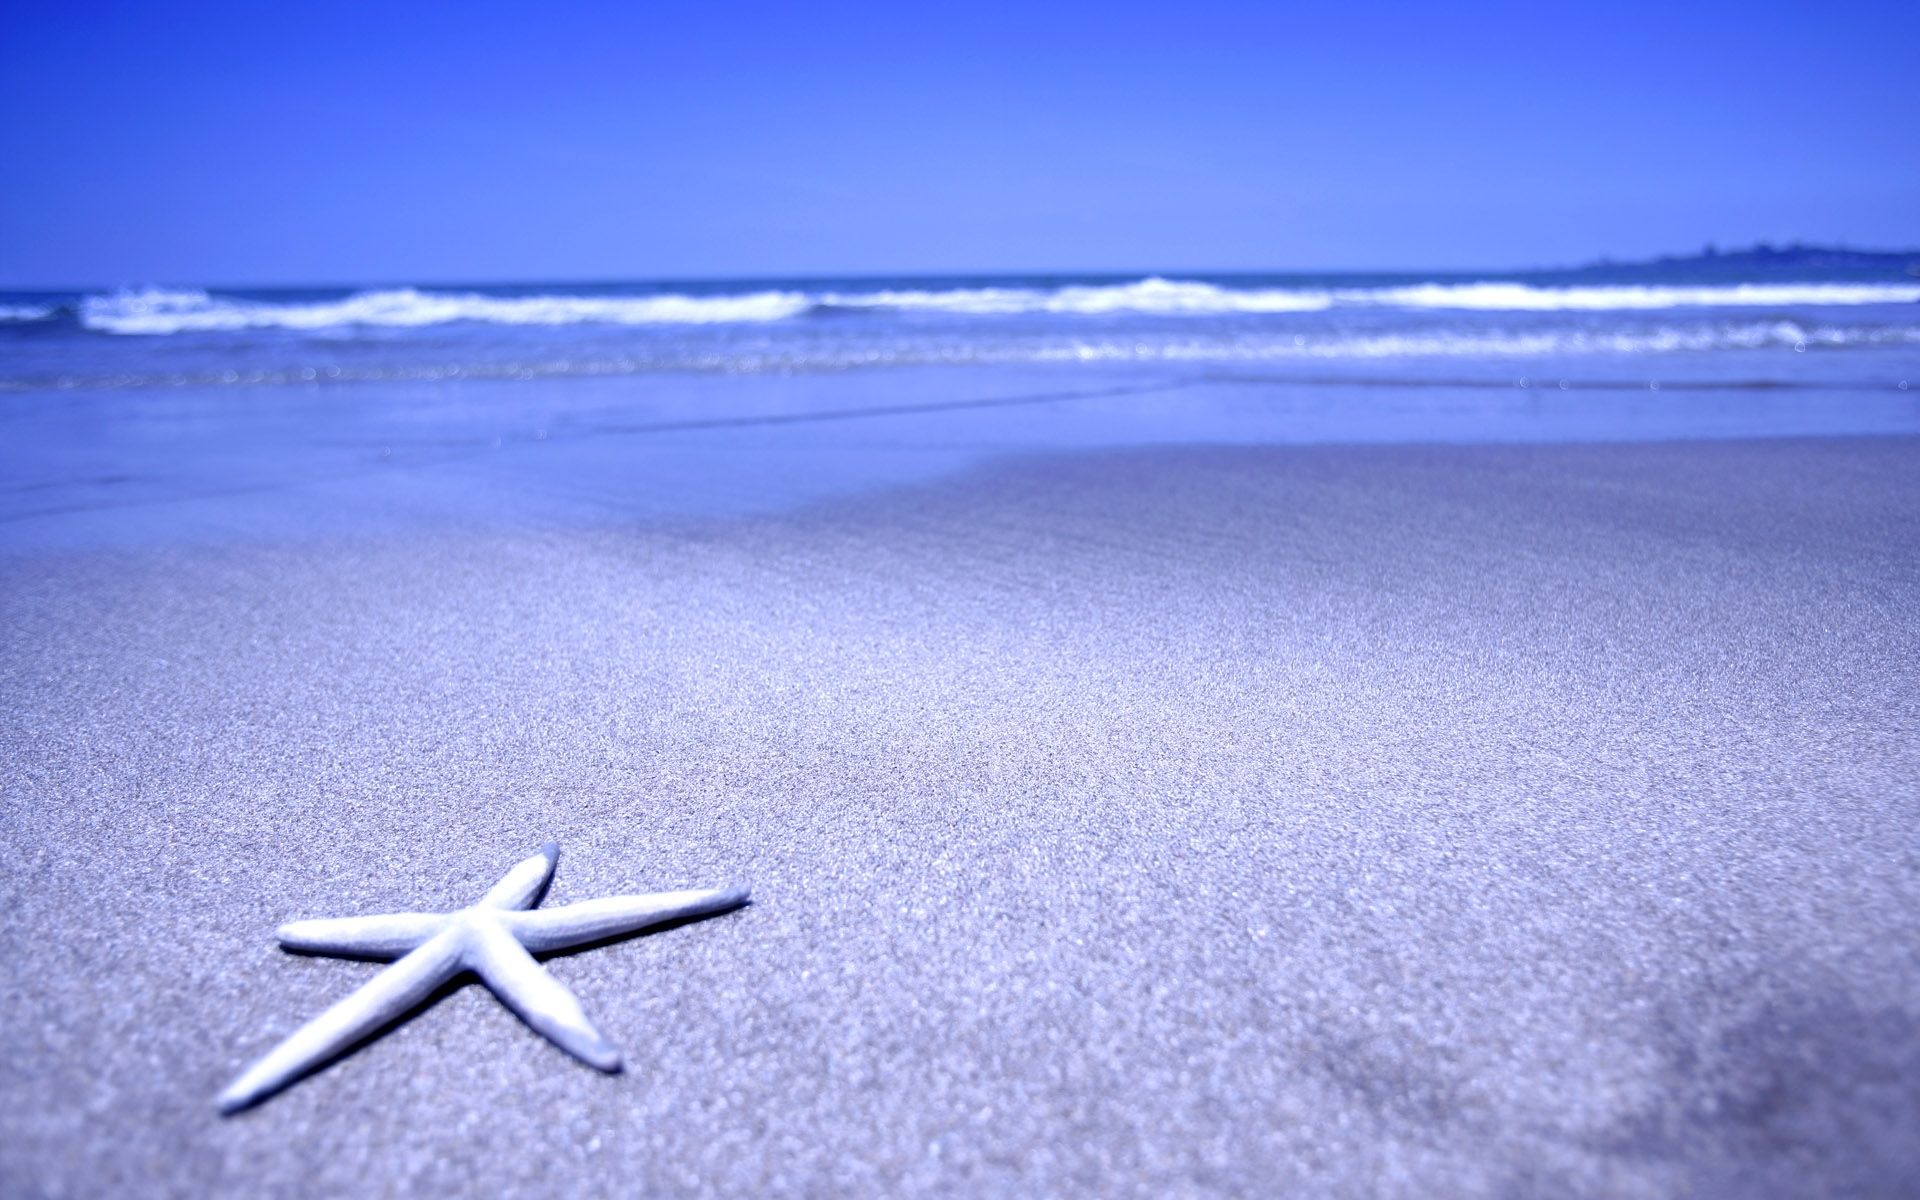
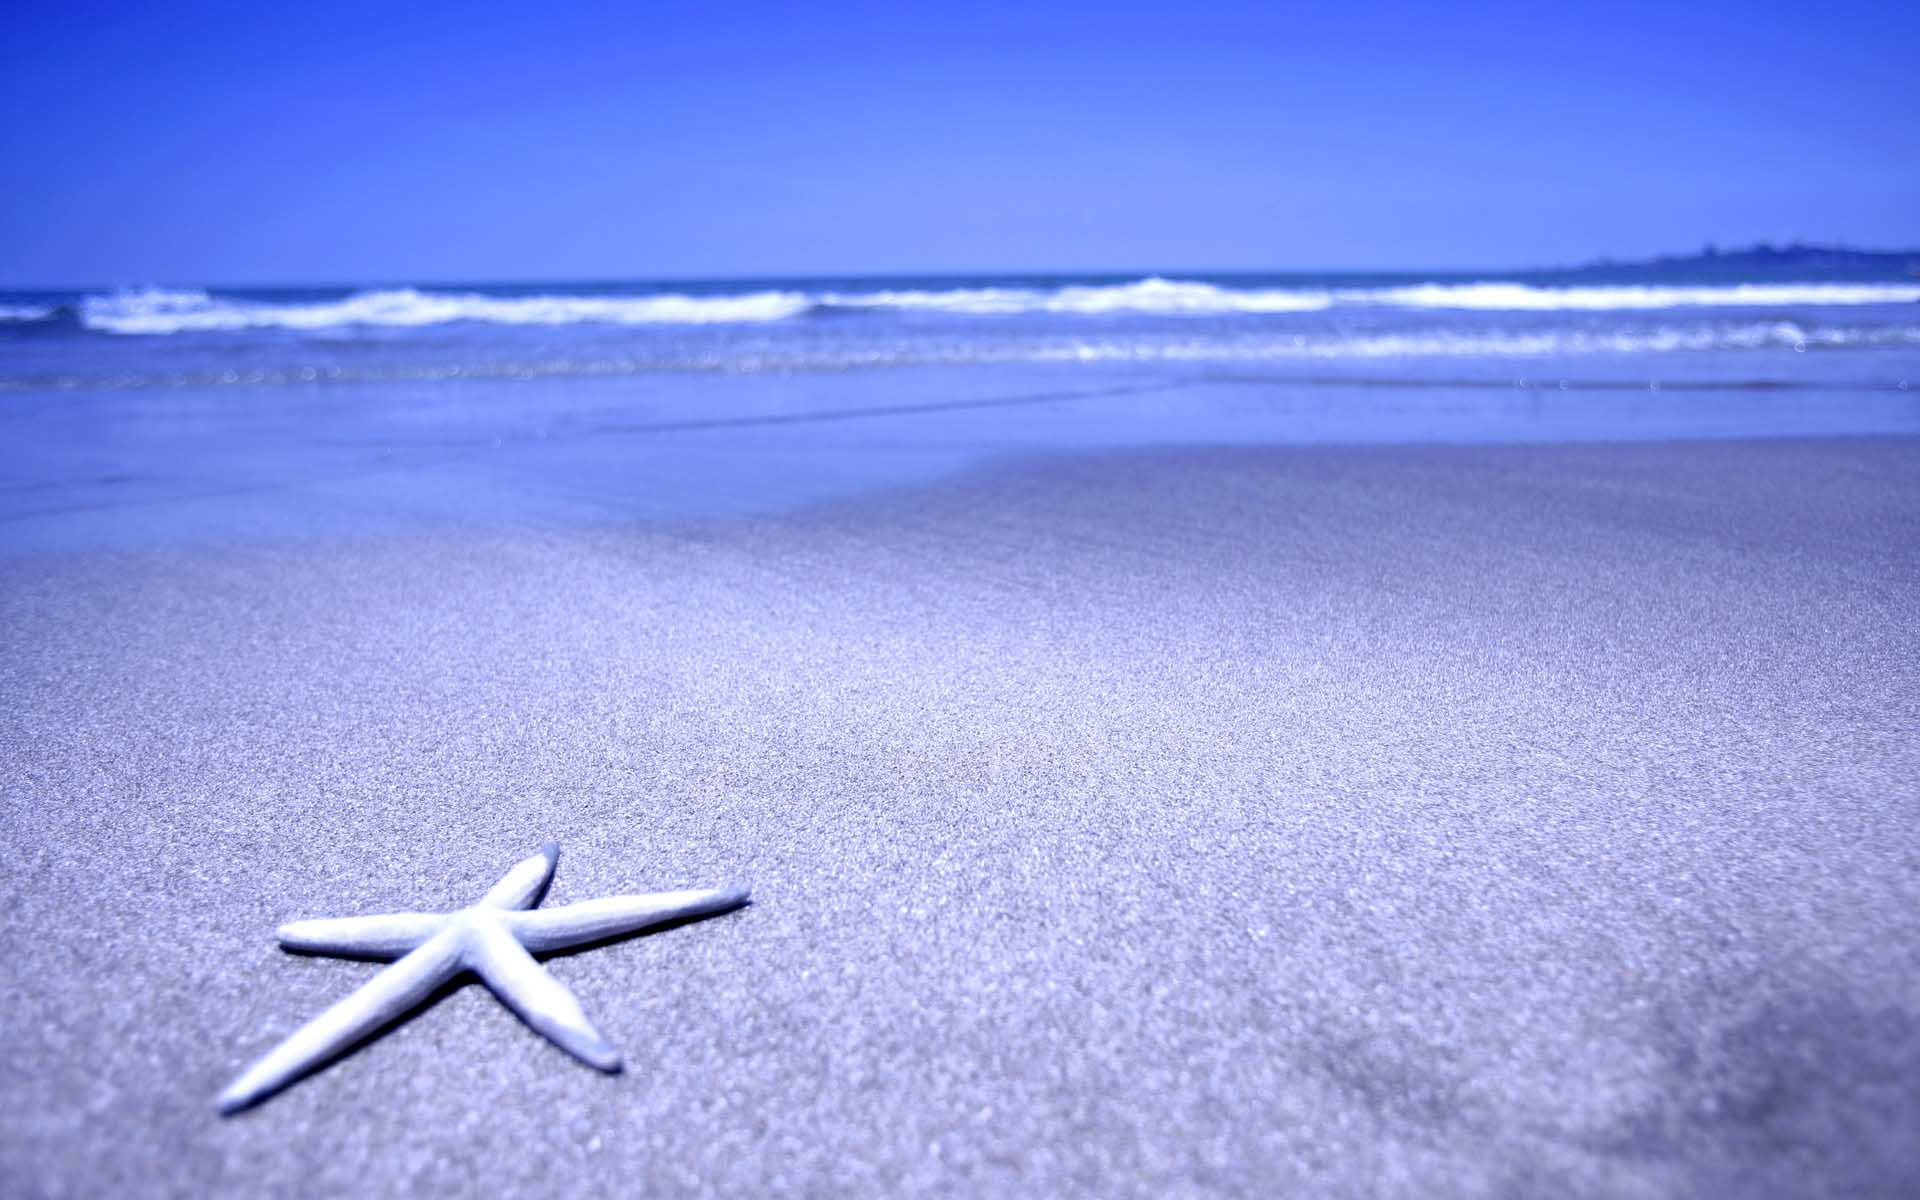
调整了背景分辨率

diff --git a/web/js/teacherIndex.js b/web/js/teacherIndex.js
@@ -66,4 +66,8 @@
         id = id.substring(25, id.length);
         $("#dealApply_decline_"+id).submit();
     })
+    
+    $('.file_panel').click(function(){
+        
+    })
 });

diff --git a/web/css/myBootstrap.css b/web/css/myBootstrap.css
@@ -39,7 +39,6 @@
 
 .copyright{
     color:#FFFFFF;
-    float: bottom;
 }
 
 .copyright a{
